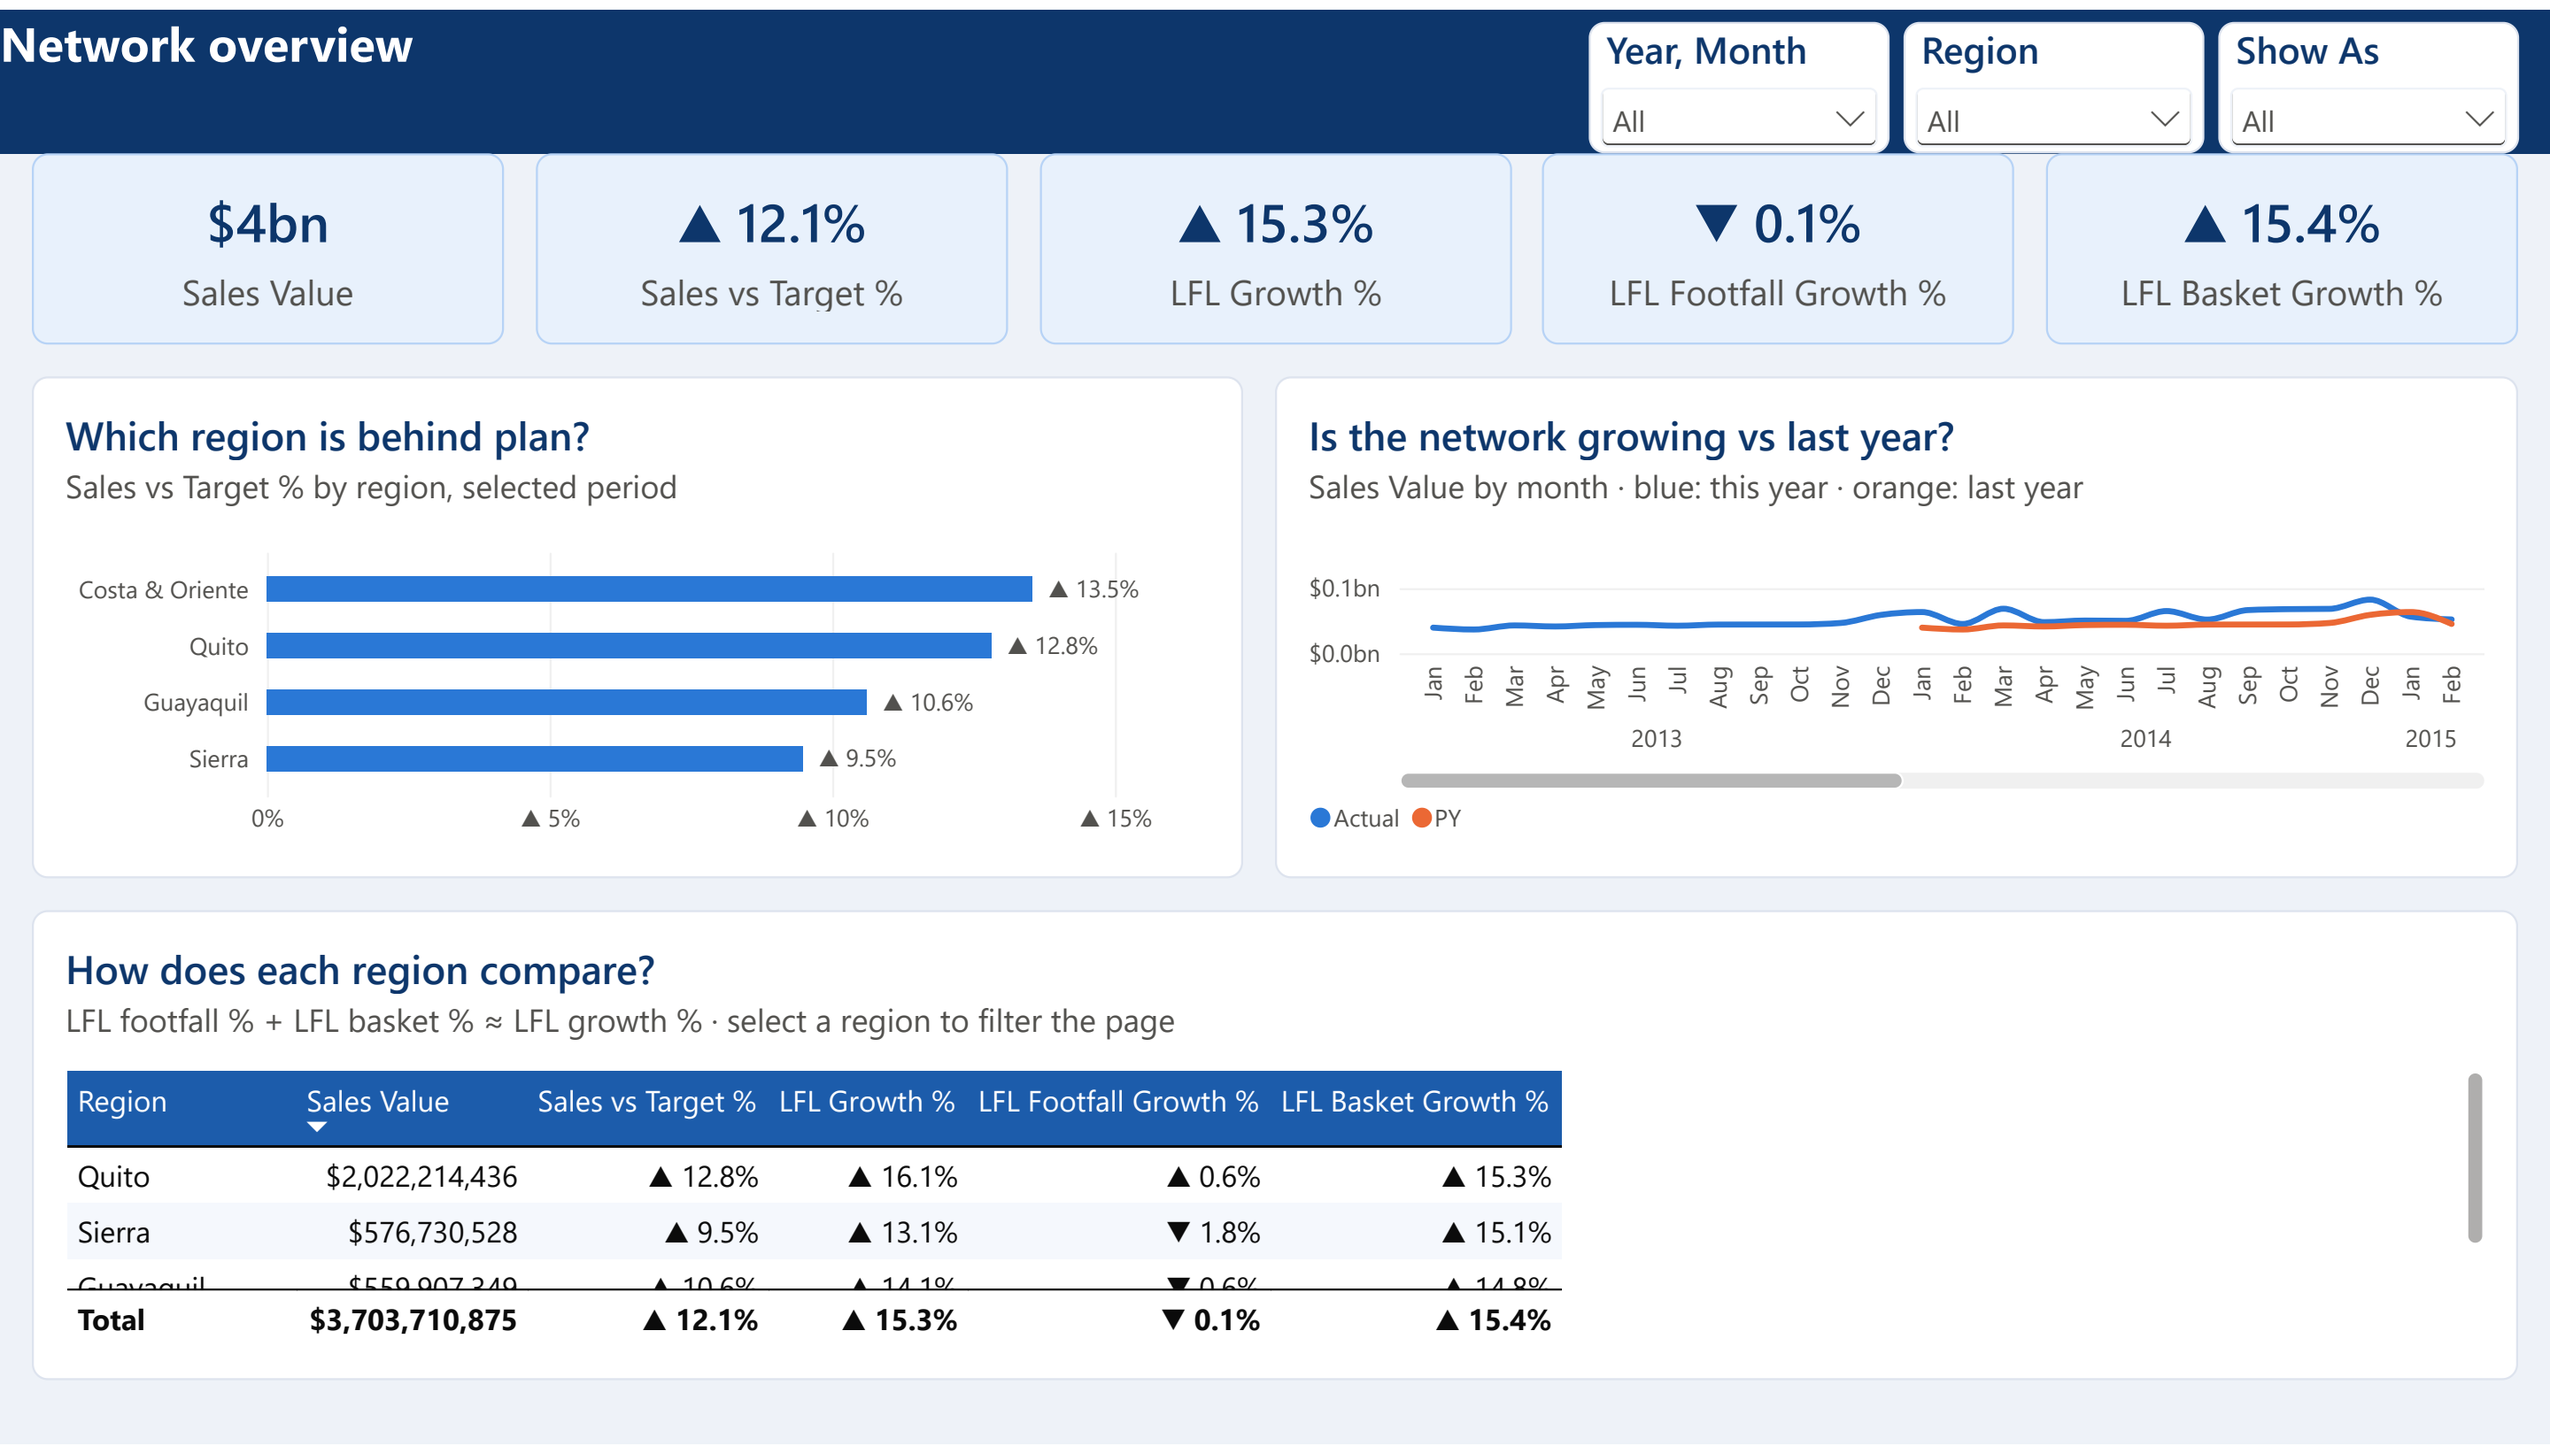
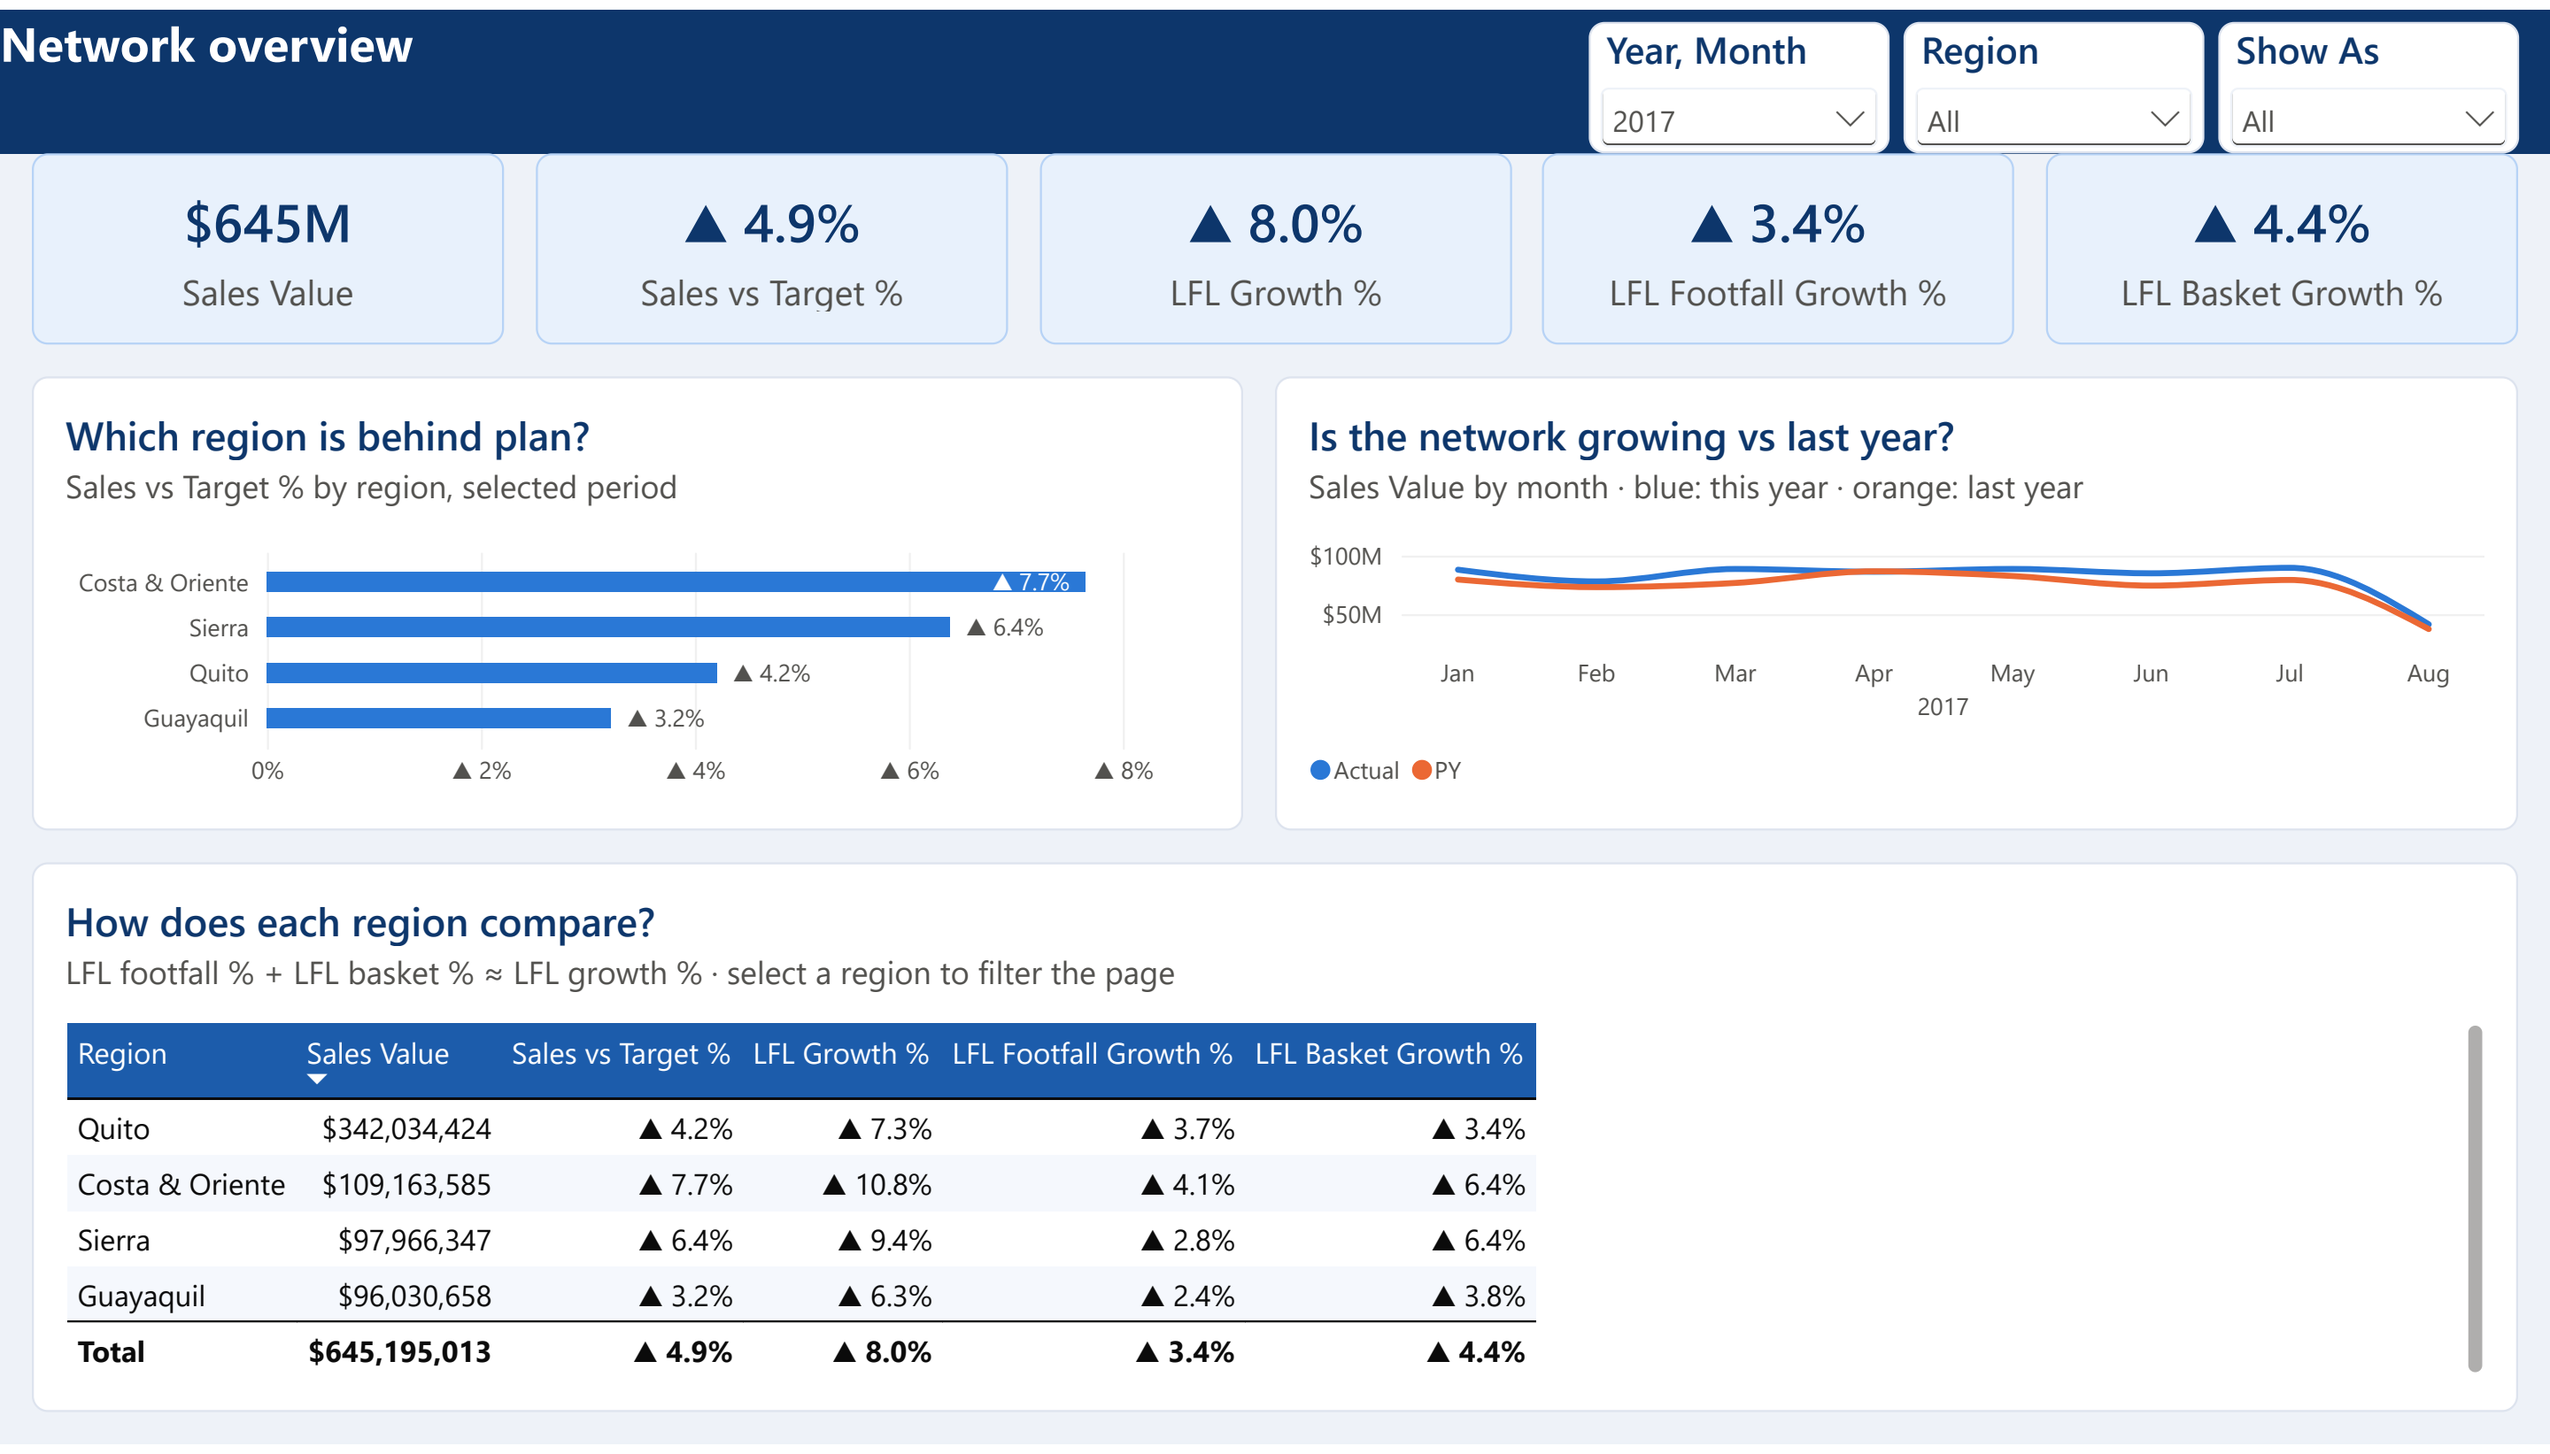
docs: report v2 screenshots from Prod, backlog status, updated walkthrough answer key

diff --git a/docs/report-v2-backlog.md b/docs/report-v2-backlog.md
@@ -4,11 +4,11 @@ Issues found by reviewing the v1 pages on full data (exports in `docs/images/rep
 preparing the [persona walkthrough](usability/protocol.md). Walkthrough findings get added here too,
 and v2 works through the list.
 
-| # | Page | Issue | Planned change |
-|---|---|---|---|
-| 1 | All | With the period on "All", comparisons mix complete and partial years, and the weekday chart's last-year bars cover a shorter span | Default the period slicer to the latest full year, or show "Year to date" by default |
-| 2 | Network overview | The monthly trend shows 56 months with a scrollbar, and the y-axis labels ($0.0bn / $0.1bn) are too coarse | Start at year level and drill down to months; format the axis in $M |
-| 3 | Network overview | The region table cuts off its third row | Grow the table or shrink the row height so all four regions show |
-| 4 | Store performance, Fresh | Long subtitles are truncated ("right-click a store → Drill through → Sto…") | Shorten them; move the drill-through hint into a tooltip |
-| 6 | Promotions | Promo Uplift % by family is led by small non-food families with tiny baselines (school supplies ▲ 1,149% in 2017), which hides the food families that matter | Rank families by extra units, not %, or set a minimum baseline; show the uplift % as a secondary value |
-| 5 | Performance | "Sales trend vs last year" (~1.2 s) and "Items at risk" (~0.65 s) miss the 500 ms target | See [performance](performance.md): year-level default, top-N at query level |
+| # | Page | Issue | Change | Status |
+|---|---|---|---|---|
+| 1 | All | With the period on "All", comparisons mix complete and partial years, and the weekday chart's last-year bars cover a shorter span | The period slicers default to 2017 (the drill-through page inherits the source page's filters) | Done in v2 (2026-09-26) |
+| 2 | Network overview | The monthly trend shows 56 months with a scrollbar, and the y-axis labels ($0.0bn / $0.1bn) are too coarse | With the 2017 default the trend shows 8 months; the axis is in $M | Done in v2 (2026-09-26) |
+| 3 | Network overview | The region table cuts off its third row | Charts 24 px shorter, table taller: all four regions and the total show | Done in v2 (2026-09-26) |
+| 4 | Store performance, Fresh | Long subtitles are truncated ("right-click a store → Drill through → Sto…") | Subtitles wrap on every visual | Done in v2 (2026-09-26) |
+| 6 | Promotions | Promo Uplift % by family is led by small non-food families with tiny baselines (school supplies ▲ 1,149% in 2017), which hides the food families that matter | New measure `Promo Extra Units`; the family bar ranks by it and shows uplift % in the tooltip | Done in v2 (2026-09-26) |
+| 5 | Performance | "Sales trend vs last year" (~1.2 s) and "Items at risk" (~0.65 s) miss the 500 ms target | See [performance](performance.md): year-level default, top-N at query level | Open (Phase 4) |

diff --git a/README.md b/README.md
@@ -12,7 +12,8 @@ deployment. It's built for store managers, regional managers and head office.
 > - Dev → Test → Prod deployment;
 > - row-level and object-level security, tested for four test users.
 >
-> The persona walkthrough, the storage-mode benchmark and report v2 are next.
+> Report v2 fixes most issues from the v1 review. The persona walkthrough and the storage-mode
+> benchmark are next.
 > The [spec](docs/design/2026-09-24-store-performance-design.md) has the full design.
 
 ---
@@ -53,7 +54,7 @@ The design and wireframes are in [design/](design/README.md).
 | Security | Dynamic RLS from an access table, OLS on cost, app audiences per persona | Built and tested in Desktop and in the Service (by impersonation); one report per audience |
 | Governance and deployment | PBIP/TMDL/PBIR in Git, Best Practice Analyzer in CI, Fabric deployment pipeline Dev → Test → Prod | Built: Git-synced Dev, a parameter rule for the full lakehouse in Test/Prod, and a data pipeline for refreshes |
 | Performance | Benchmark of Import vs. composite aggregations vs. Direct Lake in DAX Studio | Import measured on full data: 4 of 6 page queries under 500 ms, and a 1 GB per-query failure fixed ([performance](docs/performance.md)) |
-| UX | Requirements, Figma design system, persona walkthrough with the four test accounts, v1 → v2 iteration | Figma wireframes, colour-blind-checked theme and report v1 built; walkthrough answer key checked on Prod |
+| UX | Requirements, Figma design system, persona walkthrough with the four test accounts, v1 → v2 iteration | Figma wireframes, a colour-blind-checked theme, report v1 → v2 (5 of 6 review fixes), walkthrough answer key checked on Prod |
 
 ## Architecture
 
@@ -127,7 +128,7 @@ Results are added as each phase ships:
 | Model totals vs source | [fabric/README.md](fabric/README.md#checks-against-the-published-model) | 20 of 20 year × region cells equal |
 | Performance benchmark | [docs/performance.md](docs/performance.md) | Import measured; storage-mode comparison pending |
 | Persona walkthrough (4 test accounts) | [docs/usability/protocol.md](docs/usability/protocol.md) | Tasks and answer key ready; walkthrough pending |
-| Report v2 backlog | [docs/report-v2-backlog.md](docs/report-v2-backlog.md) | 6 items from the v1 review |
+| Report v2 backlog | [docs/report-v2-backlog.md](docs/report-v2-backlog.md) | 5 of 6 items done in v2; performance item open |
 
 ## Data and attribution
 

diff --git a/docs/usability/protocol.md b/docs/usability/protocol.md
@@ -42,5 +42,5 @@ were computed on Prod (full data) by impersonating each account through the Powe
 | 2 | Store manager | "Which fresh item looks most out of stock in your store over the last 7 days?" | Item 871513 (BREAD/BAKERY), about $473 estimated lost sales | US-02 |
 | 3 | Regional manager | "Which of your stores is furthest behind on like-for-like sales this year?" | Store 2 (Quito), LFL ▼ 2.7% | US-04 |
 | 4 | Regional manager | "For that store, is it fewer shoppers or smaller baskets?" | Both, mostly smaller baskets: footfall ▼ 0.7%, basket ▼ 2.0% | US-05, US-06 |
-| 5 | Category manager | "Which product family gained most from promotions this year, and did sales drop afterwards?" | School and office supplies (uplift ▲ 1,149%, post-promo dip ▼ 5.8%). The uplift comes from a very small baseline, see backlog #6 | US-07 |
+| 5 | Category manager | "Which product family gained most from promotions this year, and did sales drop afterwards?" | Grocery I: about 5.0M extra units (uplift ▲ 134%), and no drop afterwards (post-promo ▲ 6.4% vs the normal rate). v1 ranked by % and showed school supplies (▲ 1,149% on a tiny baseline); v2 ranks by extra units | US-07 |
 | 6 | Head office | "Which region is weakest against plan this year?" | Guayaquil at ▲ 3.2% vs target. No region is below plan in 2017 | US-09 |
